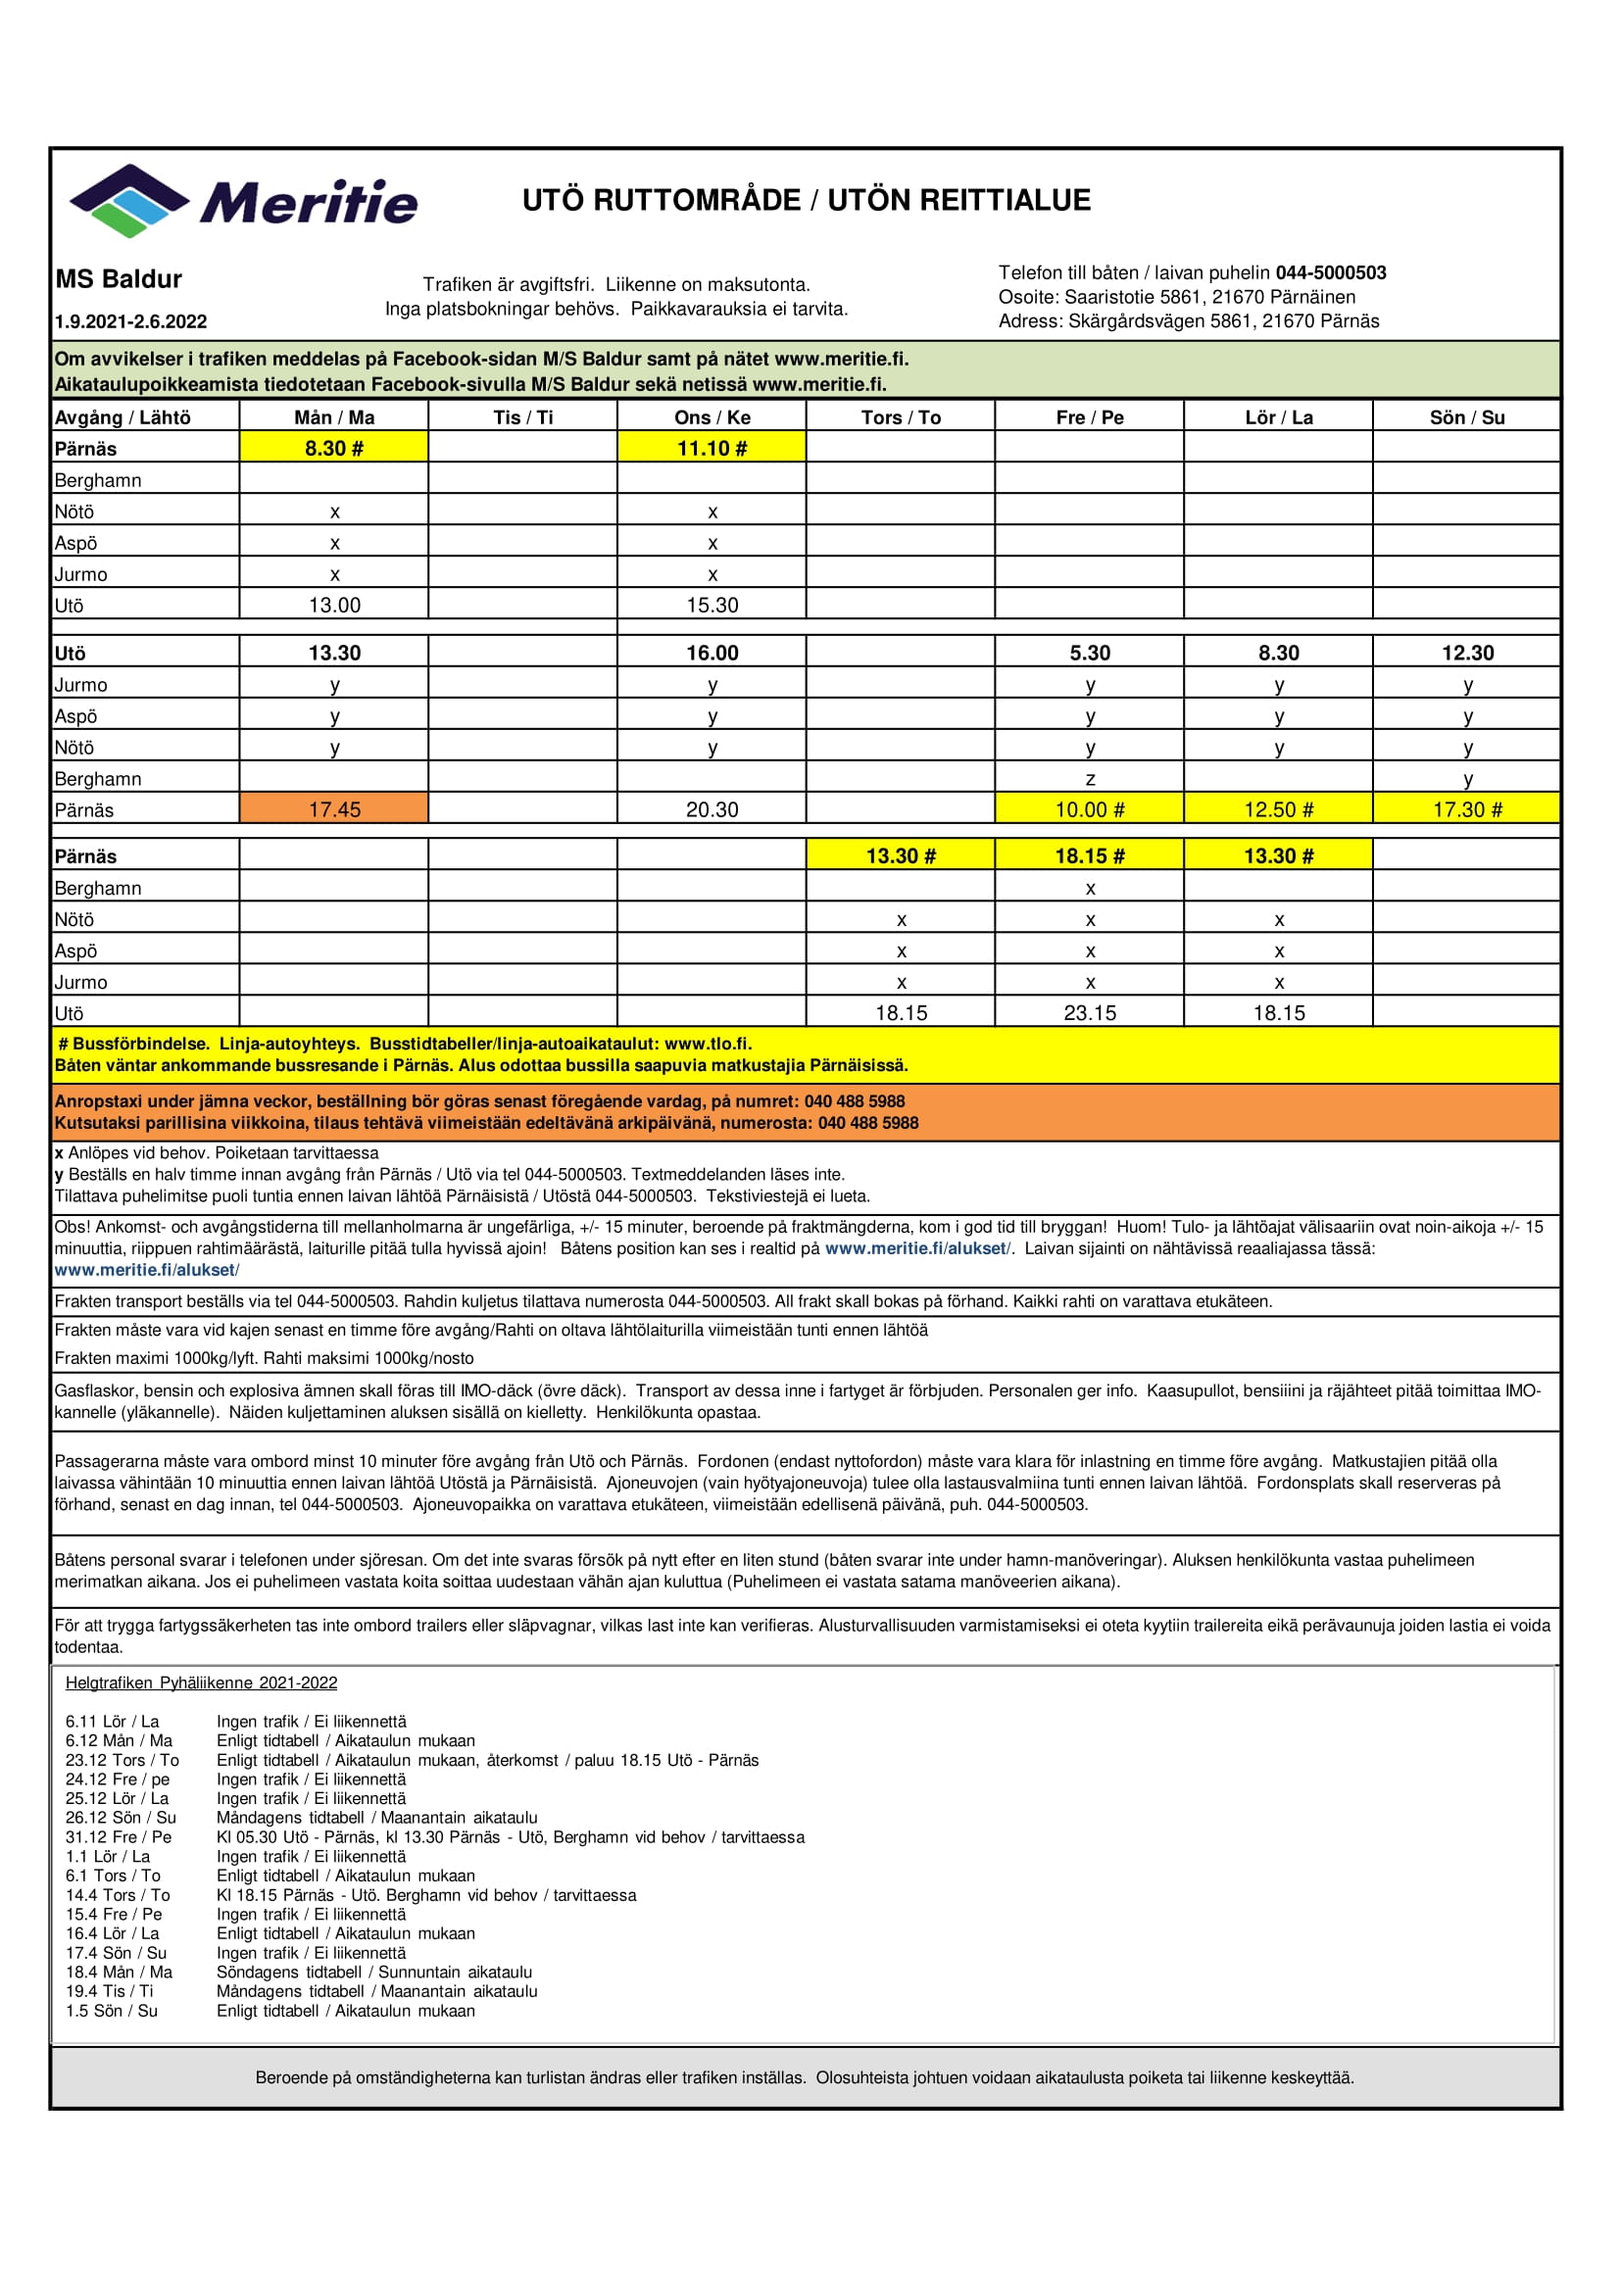
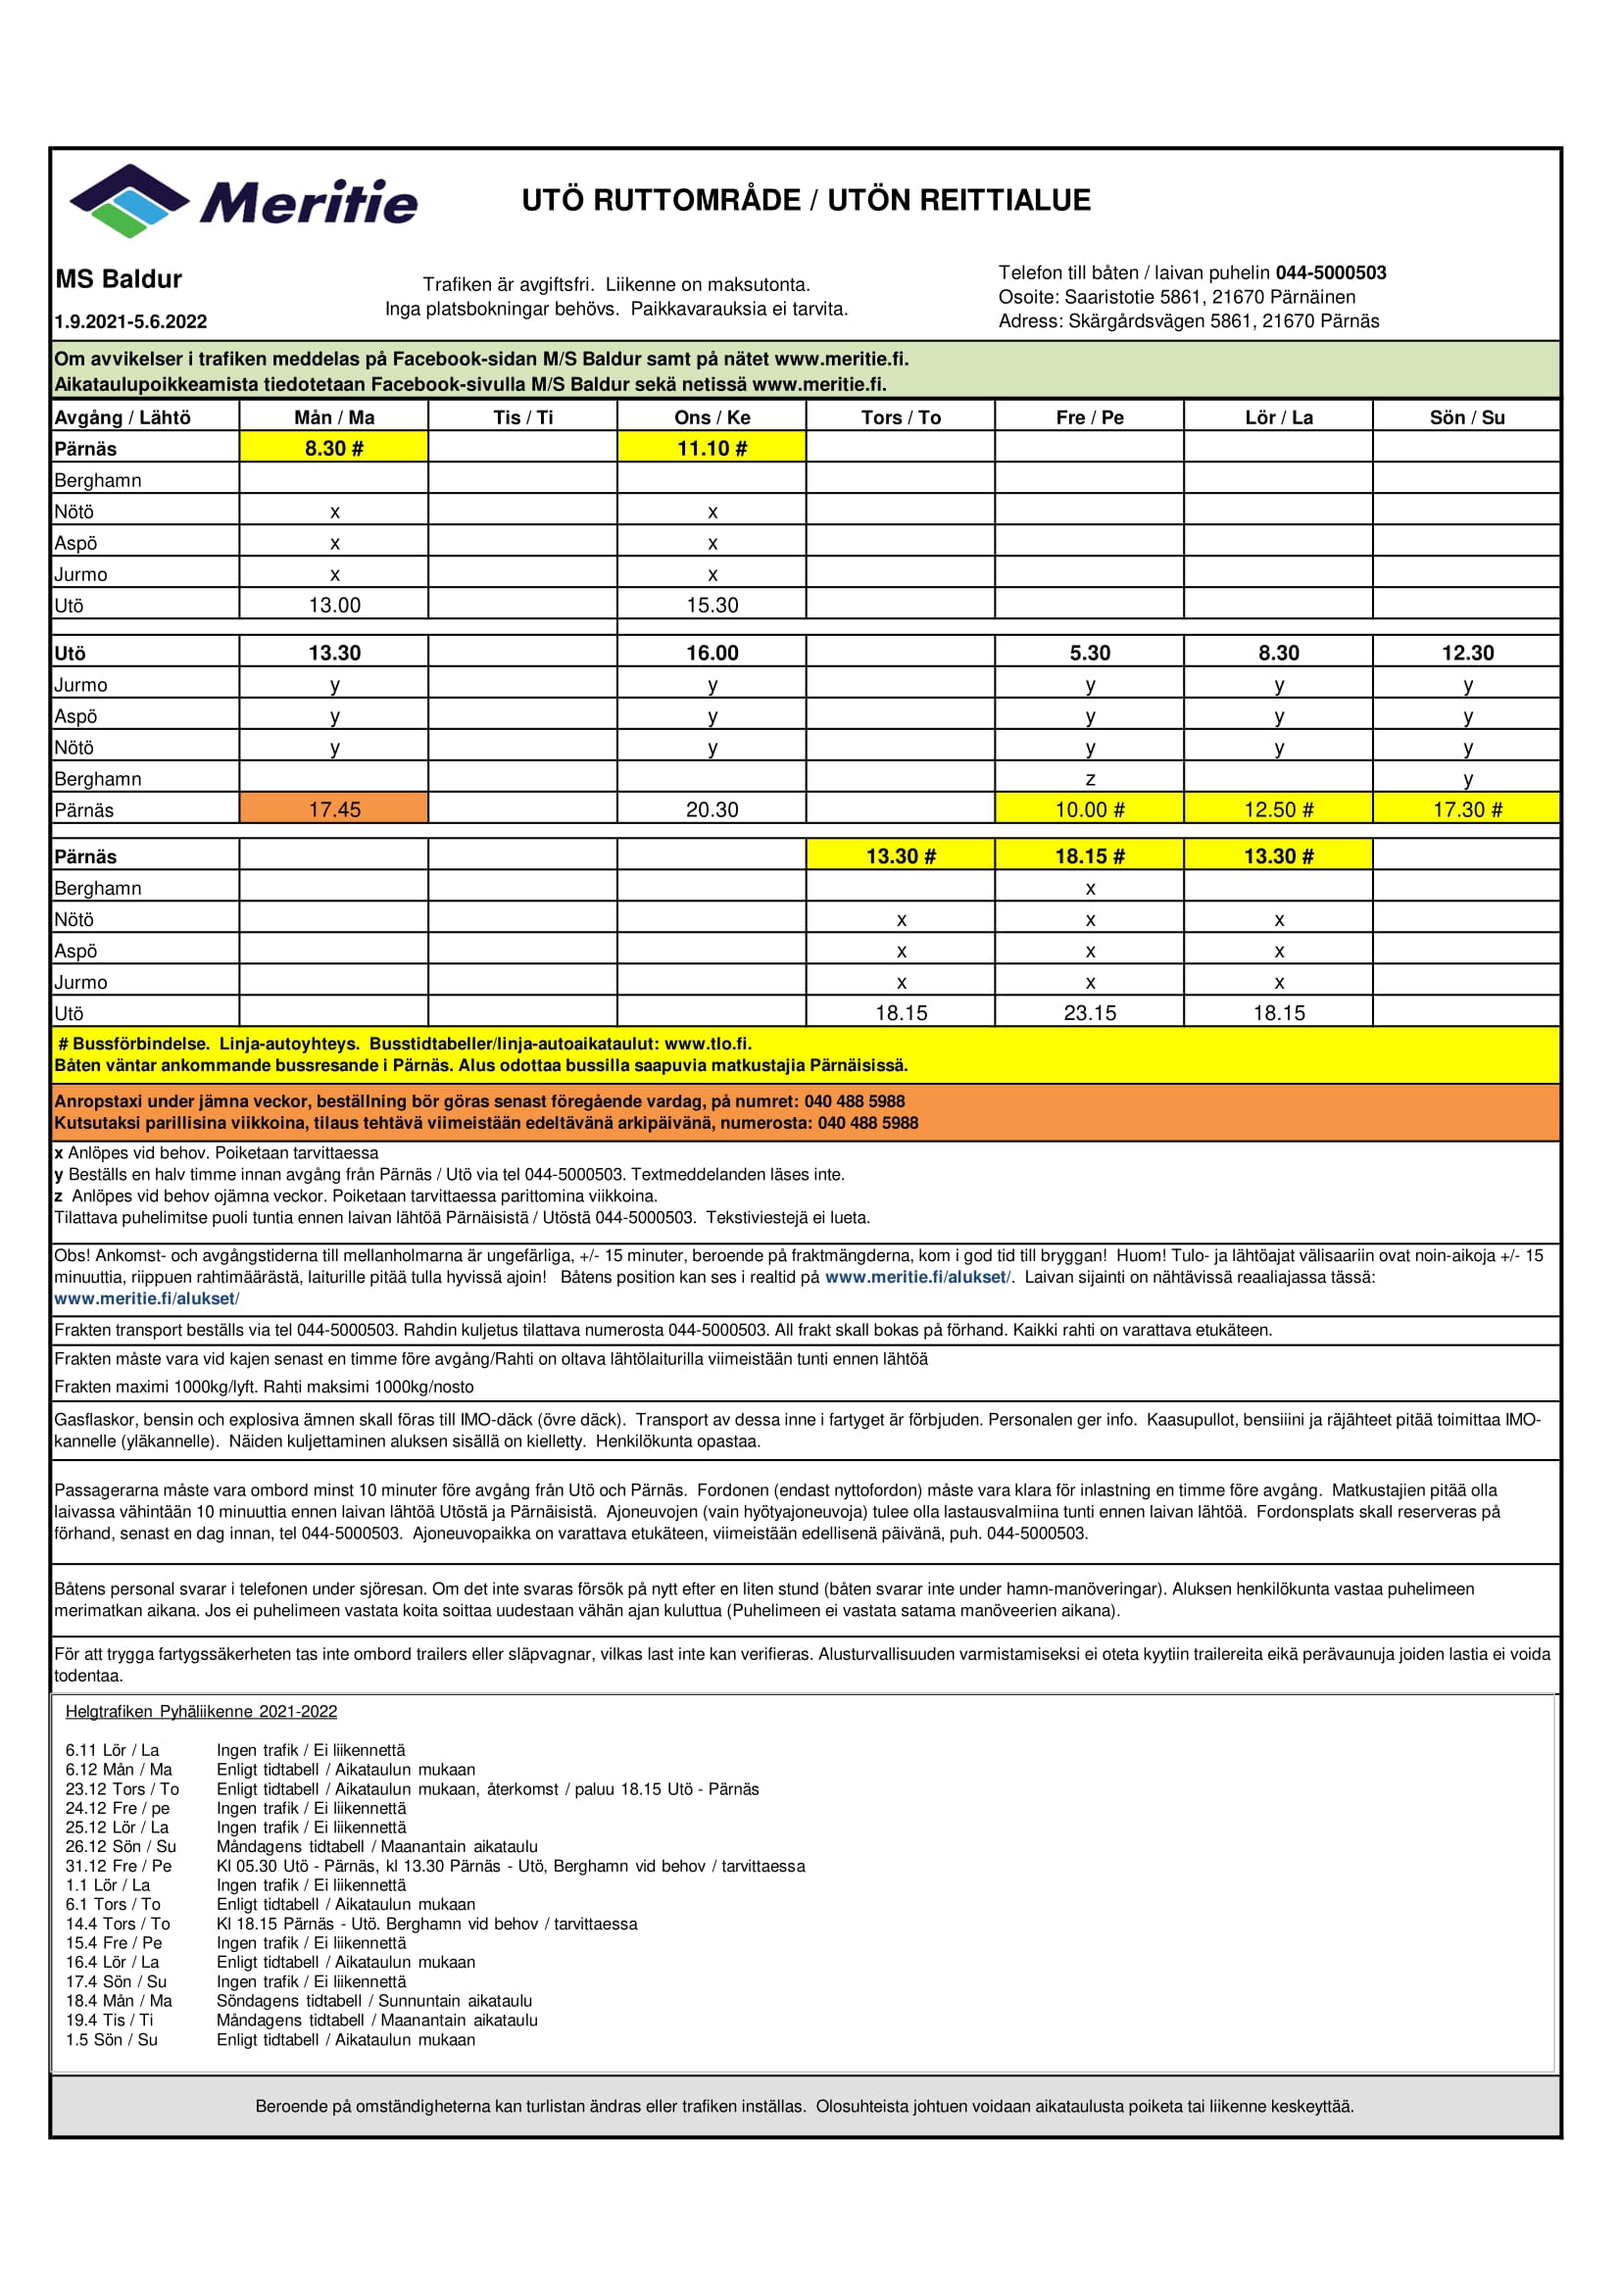
more summer schedules

Changed region(s): [[0.0308, 0.4994, 0.9867, 0.9363]]

diff --git a/data.js b/data.js
@@ -1278,6 +1278,7 @@ fdata = {
       link_en: "https://www.finferries.fi/en/ferry-traffic/ferries-and-schedules/the-archipelago-houtskari-inio.html#timetables",
       tables: [
         { validFrom: "2021-05-14", validTo: "2021-08-29", images: ["aikataulu-2020-ja-2021-houtskari-inio-antonia-1.jpg"]},
+        { validFrom: "2022-05-13", validTo: "2022-09-04", images: ["saariston-rengastie-houtskari-inio-antonia-13.5.-4.9.2022-1"]},
       ],
     },
 
@@ -1379,6 +1380,7 @@ fdata = {
         { validFrom: "2020-09-28", validTo: "2021-05-05", images:["Rymattyla-Syksy-2020-Talvi-Kevat-2021-1.jpg", "Rymattyla-Syksy-2020-Talvi-Kevat-2021-2.jpg"] },
         { validFrom: "2021-05-03", validTo: "2021-09-26", images:["Rymattyla-ya-Isla-Kesa-2021-1.jpg", "Rymattyla-ya-Isla-Kesa-2021-2.jpg"] },
         { validFrom: "2021-09-27", validTo: "2022-05-01", images:["Rymattyla-Syksy-2021-Talvi-Kevat-2022-1.jpg", "Rymattyla-Syksy-2021-Talvi-Kevat-2022-2.jpg"] },
+        { validFrom: "2022-05-02", validTo: "2022-09-25", images:["Rymattyla-ya-Isla-Kesa-2022-1.jpg", "Rymattyla-ya-Isla-Kesa-2022-2.jpg"] },
       ],
     },
     houtskarrutt: {
@@ -1414,7 +1416,8 @@ fdata = {
       tables: [
         { validFrom: "2020-11-16", validTo: "2021-06-15", images:["Baldur-poikkeusaikataulu-20-21-1.jpg"] },
         { validFrom: "2021-06-16", validTo: "2021-08-31", images:["Baldur-kesa-2021-1.jpg"] },
-        { validFrom: "2021-09-01", validTo: "2022-06-02", images:["Baldur-talvi-2021-1.jpg"] },
+        { validFrom: "2021-09-01", validTo: "2022-06-05", images:["Baldur-talvi-2021-1.jpg"] },
+        { validFrom: "2021-06-06", validTo: "2022-08-31", images:["Baldur-kesa-2022-1-1.jpg"] },
       ],
     },
     korporutt: {
@@ -1423,6 +1426,7 @@ fdata = {
         { validFrom: "2021-01-01", validTo: "2021-05-31", images:["Fisko-talviaikataulu-1.1.2021-31.5.2020.jpg"] },
         { validFrom: "2021-06-01", validTo: "2021-08-31", images:["Fisko-kesaaikataulu-2021-1.jpg"] },
         { validFrom: "2021-09-01", validTo: "2022-05-31", images:["Fisko-talviaikataulu-1.9.2021-31.5.2022-1.jpg"] },
+        { validFrom: "2022-06-01", validTo: "2022-08-31", images:["Kopio-Fisko-kesaaikataulu-2021-1.jpg"] },
       ],
     },
     nagunorra: {
@@ -1432,17 +1436,21 @@ fdata = {
       tables: [
         { validFrom: "2021-01-01", validTo: "2021-05-13", images:["Kokkomaa-Aikataulu-talvi-2021_W1-1.jpg"] },
         { validFrom: "2021-05-14", validTo: "2021-08-29", images:["nagunorra-kesa-2021-26042021-1.jpg"] },
-        { validFrom: "2021-08-30", validTo: "2022-05-15", images:["Aikataulu-syksy-talvi-2021_2022-1.jpg"] },
+        { validFrom: "2021-08-30", validTo: "2022-05-12", images:["Aikataulu-syksy-talvi-2021_2022-1.jpg"] },
+        { validFrom: "2022-05-13", validTo: "2022-09-04", images:["Aikataulu-kesa-2022_rev_1-1-1.jpg"] },
       ],
     },
     nagutvar: {
-      link: "https://www.ferentes.fi/yhteysalusliikenne/nauvon-poikittainen-reitti.html",
-      link_sv: "https://www.ferentes.fi/sv/forbindelsefartygstrafik/nagu-tvartrafik.html",
-      link_en: "https://www.ferentes.fi/en/ferry-traffic/the-nauvo-transverse-route.html",
+      link: "https://www.finferries.fi/lauttaliikenne/lauttapaikat-ja-aikataulut/nauvon-poikittainen-reitti.html",
+      link_sv: "https://www.finferries.fi/sv/farjetrafik/farjplatserna-och-tidtabellerna/nagu-tvargaende-rutt.html",
+      link_en: "https://www.finferries.fi/en/ferry-traffic/ferries-and-schedules/nauvo-transverse-route.html",
       tables: [
         { validFrom: "2020-11-01", validTo: "2021-06-15", images:["tidtabell-1.11.2020-2021-1.jpg"] },
         { validFrom: "2021-06-23", validTo: "2021-10-31", images:["cheri-23.6.-31.10.2021-1.jpg"] },
         { validFrom: "2021-11-01", validTo: "2022-03-31", images:["cheri-vinter-2021-22-1.jpg"] },
+        { validFrom: "2022-05-01", validTo: "2022-05-31", images:["nauvon-poikittainen-reitti-talvi-1.5.-31.5.2022-ja-1.9.-31.12.2022-1.jpg"] },
+        { validFrom: "2022-06-01", validTo: "2022-08-31", images:["nauvon-poikittainen-reitti-kesa-1.6.-31.8.2022-1.jpg"] },
+        { validFrom: "2022-09-01", validTo: "2022-12-31", images:["nauvon-poikittainen-reitti-talvi-1.5.-31.5.2022-ja-1.9.-31.12.2022-1.jpg"] },
       ],
     },
     nagusodra: { 
@@ -1469,6 +1477,7 @@ fdata = {
         { validFrom: "2020-08-10", validTo: "2021-06-05", images:["Hiittinen-Syksy-2020-Talvi-Kevat-2021-paivitetty-13.5-1.jpg", "Hiittinen-Syksy-2020-Talvi-Kevat-2021-paivitetty-13.5-2.jpg"] },
         { validFrom: "2021-06-06", validTo: "2021-08-15", images:["Ms-Stella-Kesa-2021-1.jpg", "Ms-Stella-Kesa-2021-2.jpg"] },
         { validFrom: "2021-08-16", validTo: "2022-06-04", images:["Hiittinen-Syksy-2021-Talvi-Kevat-2022--1.jpg", "Hiittinen-Syksy-2021-Talvi-Kevat-2022--2.jpg"] },
+        { validFrom: "2022-06-05", validTo: "2022-08-14", images:["Ms-Stella-Kesa-2022-1.jpg", "Ms-Stella-Kesa-2022-2.jpg"] },
       ],
     },
     hitisalva: { 
@@ -2016,7 +2025,7 @@ fdata = {
       name_en: "Nagu Cross Route",
       specifier: "",
       piers: ["Pärnäs", "Krok", "Mattnäs", "Lånholm", "Fagerholm", "Killingholm", "Ängsö", "Tveskiftsholm", "Berghamn", "Hummelholm", "Rockelholm", "Ytterstholm", "Byskär", "Brännskär", "Grötö", "Stenskär", "Gullkrona", "Kirjais"],
-      operator: "ferentes",
+      operator: "finferries",
       vessels: ["myrskylintu", "cheri"],
       features: {
         interval_L: ["times.aweek", "3"],
